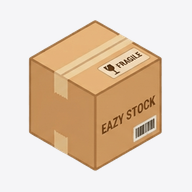
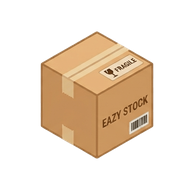
Recepciones: filtros de factura y modalidad + estados vacíos honestos + ícono PWA transparente
Filtros nuevos: nº de factura/guía (debounced) y Contado/Crédito; las
fechas viajan planas yyyy-MM-dd (día del usuario — el T00:00:00 viejo era
hora de Berlín y vaciaba la lista). El empty-state distingue: error de red
(«No pudimos cargar»), filtros sin match («Sin recepciones con estos
filtros») y de verdad no hay («Aún no registraste»). Íconos pwa-192/512
regenerados CON transparencia desde logo.png (se aplanaban sobre #F5F5F7 y
la app instalada se veía con fondo blanco); maskable y apple-touch
conservan fondo porque Android/iOS lo exigen.

Changed region(s): [[0.125, 0.0938, 0.8438, 0.9062]]

diff --git a/src/components/stock/ReceiptsTab.jsx b/src/components/stock/ReceiptsTab.jsx
@@ -1,7 +1,8 @@
 import { useState } from 'react'
-import { ChevronLeft, ChevronRight, PackagePlus, Loader2 } from 'lucide-react'
+import { ChevronLeft, ChevronRight, PackagePlus, Loader2, Search, AlertTriangle } from 'lucide-react'
 import { useReceipts } from '../../hooks/useReceipts'
 import { useSuppliers } from '../../hooks/useSuppliers'
+import { useDebounce } from '../../hooks/useDebounce'
 import { formatPrice } from '../../utils/formatMoney'
 import ReceiptDetailModal from './ReceiptDetailModal'
 
@@ -19,19 +20,29 @@ export default function ReceiptsTab() {
   const [supplierId, setSupplierId]     = useState('')
   const [from, setFrom]                 = useState('')
   const [to, setTo]                     = useState('')
+  const [reference, setReference]       = useState('')
+  const [paymentMode, setPaymentMode]   = useState('')
   const [selectedReceiptId, setSelectedReceiptId] = useState(null)
+  const debouncedReference = useDebounce(reference, 350)
 
   const { data: suppliersData } = useSuppliers({ size: 200 })
   const suppliers = suppliersData?.content ?? []
 
+  const hasFilters = !!(supplierId || from || to || reference || paymentMode)
+
+  // Fechas planas yyyy-MM-dd: el BE las interpreta como día en la zona del
+  // usuario (ClientDay). El `T00:00:00` viejo era hora del SERVER (Berlín) y
+  // por eso filtrar por fechas vaciaba la lista (reporte de William).
   const params = {
     page, size: PAGE_SIZE,
     ...(supplierId && { supplierId }),
-    ...(from && { from: `${from}T00:00:00` }),
-    ...(to   && { to:   `${to}T23:59:59`  }),
+    ...(from && { from }),
+    ...(to   && { to }),
+    ...(debouncedReference.trim() && { reference: debouncedReference.trim() }),
+    ...(paymentMode && { paymentMode }),
   }
 
-  const { data, isLoading, isFetching } = useReceipts(params)
+  const { data, isLoading, isFetching, isError } = useReceipts(params)
   const items         = data?.content       ?? []
   const totalElements = data?.totalElements ?? 0
   const totalPages    = data?.totalPages    ?? 0
@@ -64,8 +75,27 @@ export default function ReceiptsTab() {
             className={selectCls} />
         </div>
 
-        {(supplierId || from || to) && (
-          <button onClick={() => { setSupplierId(''); setFrom(''); setTo(''); setPage(0) }}
+        {/* Nº de factura/guía: para eso se pide al registrar (pedido de William) */}
+        <div className="relative">
+          <Search size={14} className="pointer-events-none absolute left-3 top-1/2 -translate-y-1/2 text-gray-400" />
+          <input
+            type="text"
+            value={reference}
+            onChange={(e) => { setReference(e.target.value); setPage(0) }}
+            placeholder="Nº de factura / guía..."
+            className={`${selectCls} pl-8 min-w-44`}
+          />
+        </div>
+
+        <select value={paymentMode} onChange={(e) => { setPaymentMode(e.target.value); setPage(0) }}
+          className={selectCls}>
+          <option value="">Contado y crédito</option>
+          <option value="CASH">Al contado</option>
+          <option value="CREDIT">A crédito</option>
+        </select>
+
+        {hasFilters && (
+          <button onClick={() => { setSupplierId(''); setFrom(''); setTo(''); setReference(''); setPaymentMode(''); setPage(0) }}
             className="text-sm font-medium text-blue-600 hover:text-blue-700">
             Limpiar
           </button>
@@ -89,6 +119,19 @@ export default function ReceiptsTab() {
             <tbody>
               {isLoading ? (
                 <tr><td colSpan={6} className="py-10 text-center"><Loader2 size={20} className="mx-auto animate-spin text-gray-400" /></td></tr>
+              ) : isError ? (
+                // Un error NO es "no tienes recepciones": decir la verdad.
+                <tr>
+                  <td colSpan={6}>
+                    <div className="flex flex-col items-center gap-3 py-16">
+                      <div className="flex h-16 w-16 items-center justify-center rounded-2xl bg-amber-50">
+                        <AlertTriangle size={28} className="text-amber-600" />
+                      </div>
+                      <p className="text-sm font-semibold text-gray-700">No pudimos cargar las recepciones</p>
+                      <p className="text-xs text-gray-400">Revisá tu conexión y volvé a intentar.</p>
+                    </div>
+                  </td>
+                </tr>
               ) : items.length === 0 ? (
                 <tr>
                   <td colSpan={6}>
@@ -96,8 +139,17 @@ export default function ReceiptsTab() {
                       <div className="flex h-16 w-16 items-center justify-center rounded-2xl bg-gray-100">
                         <PackagePlus size={28} className="text-gray-400" />
                       </div>
-                      <p className="text-sm font-semibold text-gray-700">Aún no registraste recepciones</p>
-                      <p className="text-xs text-gray-400">Hacé click en "Registrar recepción" arriba.</p>
+                      {hasFilters ? (
+                        <>
+                          <p className="text-sm font-semibold text-gray-700">Sin recepciones con estos filtros</p>
+                          <p className="text-xs text-gray-400">Probá ampliar las fechas o tocá "Limpiar".</p>
+                        </>
+                      ) : (
+                        <>
+                          <p className="text-sm font-semibold text-gray-700">Aún no registraste recepciones</p>
+                          <p className="text-xs text-gray-400">Hacé click en "Registrar recepción" arriba.</p>
+                        </>
+                      )}
                     </div>
                   </td>
                 </tr>
